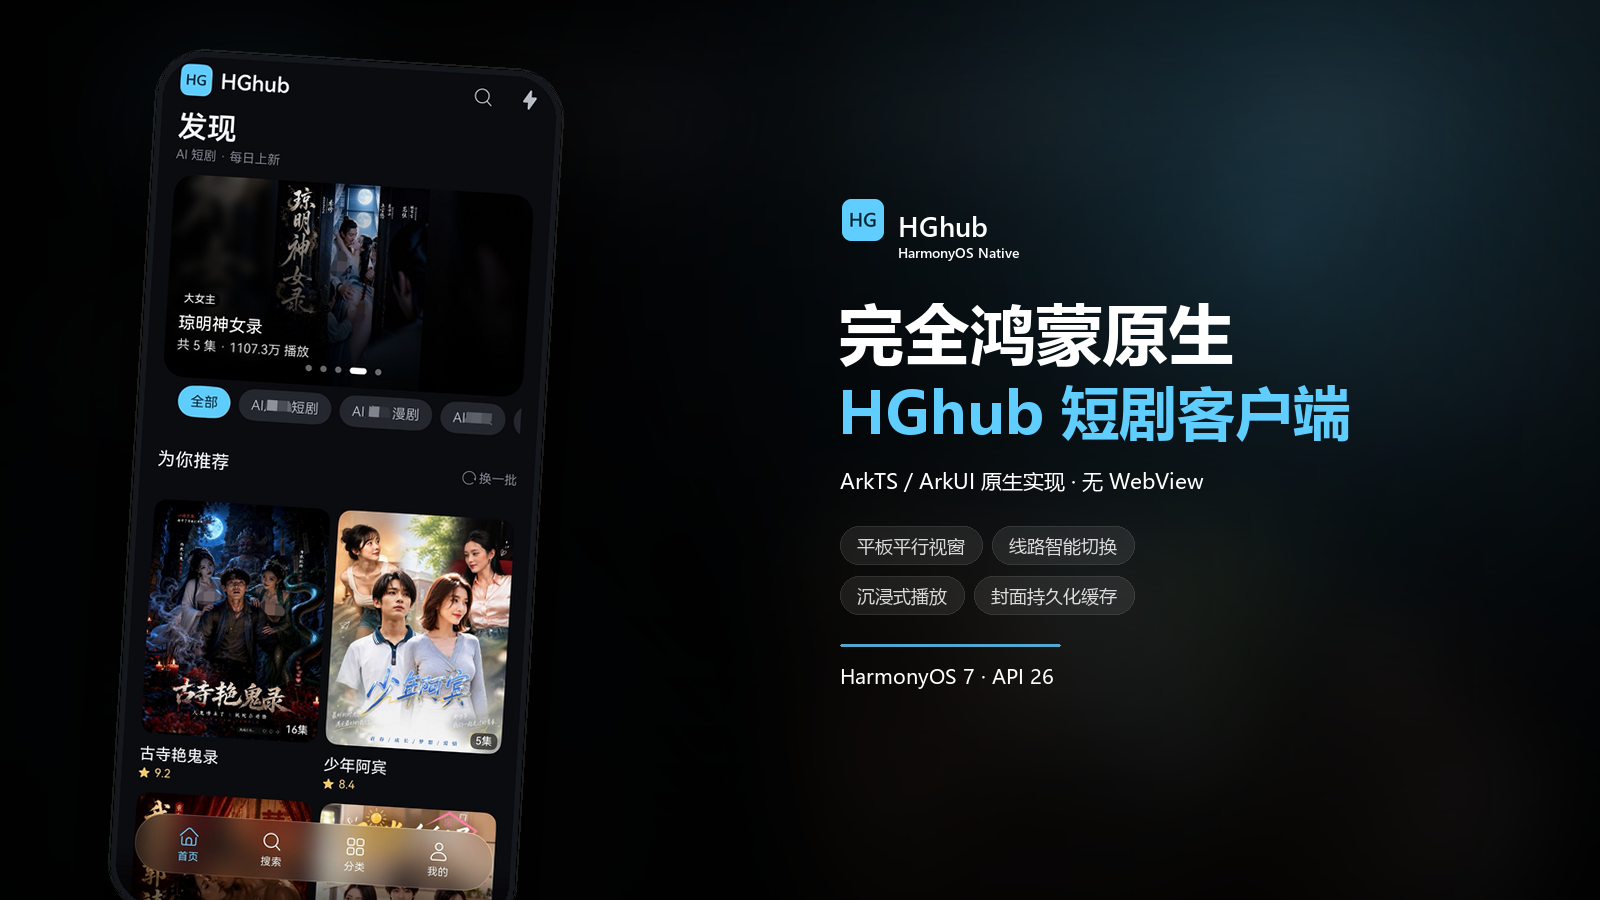
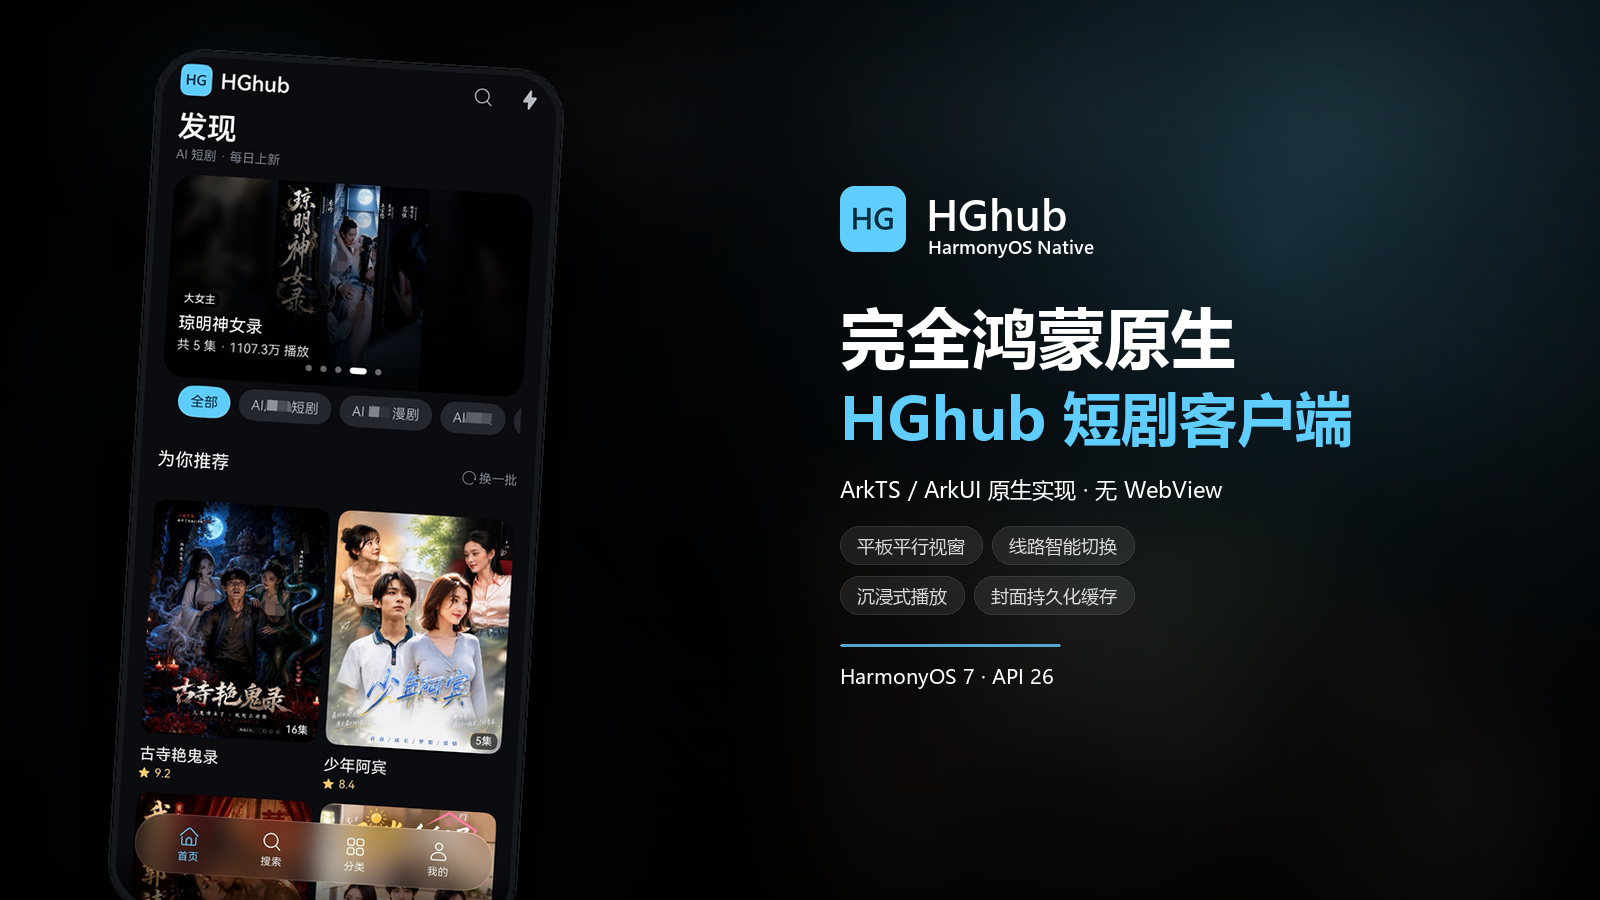
docs: 宣传图 V1 品牌行优化（应用图标 + 字标对齐、字号加大）

Changed region(s): [[0.5, 0.3422, 0.8438, 0.4978], [0.5312, 0.1867, 0.6875, 0.3111], [0.5312, 0.5289, 0.7812, 0.56]]

diff --git a/scripts/harmony/gen-promo.py b/scripts/harmony/gen-promo.py
@@ -149,16 +149,18 @@ def save(img, name, out_dir):
 TEXT_X = 880
 
 
-def brand_hg(img, x, y, size=32, logo=None):
+def brand_hg(img, x, y, size=42, logo=None):
+    """品牌行：大图标 + 垂直居中的 HGhub 字标 + 下方 HarmonyOS Native。"""
     d = ImageDraw.Draw(img)
-    lx = x
-    ls = int(size * 1.5)
+    icon = int(size * 1.5)
+    cy = y + icon / 2
     if logo is not None:
-        img.alpha_composite(logo.resize((ls, ls), Image.LANCZOS), (lx, y - int(ls * .18)))
-        lx += ls + 14
-    d.text((lx, y), "HGhub", font=font(size, bold=True, latin=True), fill=WHITE)
-    d.text((lx, y + int(size * 1.32)), "HarmonyOS Native", font=font(int(size * .5), latin=True),
-           fill=(255, 255, 255, 120))
+        img.alpha_composite(logo.resize((icon, icon), Image.LANCZOS), (x, y))
+    tx = x + icon + 20
+    d.text((tx, cy - size * 0.14), "HGhub", font=font(size, bold=True, latin=True),
+           fill=WHITE, anchor="lm")
+    d.text((tx + 2, cy + size * 0.62), "HarmonyOS Native",
+           font=font(int(size * 0.44), latin=True), fill=(255, 255, 255, 135), anchor="lm")
 
 
 def v1(src, logo):
@@ -167,10 +169,10 @@ def v1(src, logo):
     shadow(img, ph, (96, 50))
     img.alpha_composite(ph, (104, 46))
     d = ImageDraw.Draw(img)
-    brand_hg(img, 842, 206, 28, logo)
-    d.text((838, 288), "完全鸿蒙原生", font=font(66, bold=True), fill=WHITE)
-    d.text((838, 372), "HGhub 短剧客户端", font=font(58, bold=True), fill=rgba(ACCENT))
-    d.text((840, 466), "ArkTS / ArkUI 原生实现 · 无 WebView", font=font(21), fill=(255, 255, 255, 148))
+    brand_hg(img, 840, 186, 44, logo)
+    d.text((840, 292), "完全鸿蒙原生", font=font(66, bold=True), fill=WHITE)
+    d.text((840, 378), "HGhub 短剧客户端", font=font(58, bold=True), fill=rgba(ACCENT))
+    d.text((840, 474), "ArkTS / ArkUI 原生实现 · 无 WebView", font=font(22), fill=(255, 255, 255, 148))
     x = 840
     for t in ("平板平行视窗", "线路智能切换"):
         x += pill(img, x, 526, t, 18) + 10
